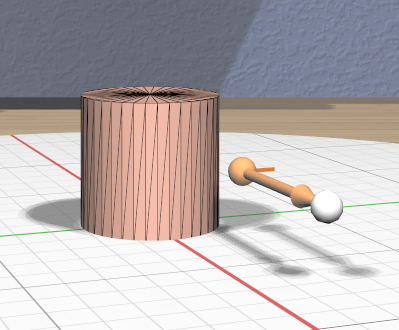
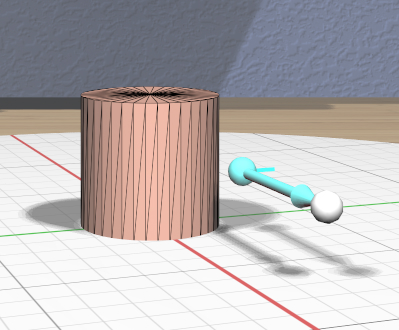
Changed target colors and updated doc.

Changed region(s): [[0.5714, 0.4545, 0.782, 0.6364]]

diff --git a/PublicDoc/docs/UserGuide/Precision.rst b/PublicDoc/docs/UserGuide/Precision.rst
@@ -171,10 +171,12 @@ feedback<ug-feedback>` change to the active target color.  See the
 documentation for the individual tools for specific details of how they handle
 snapping.
 
+.. incimage:: /images/SnappedToPointTarget.jpg 240px right
+
 When the Point Target is active, interactions that involve position (such as
 the :ref:`Translation Tool <ug-translation-tool>`) or orientation (such as the
 :ref:`Rotation Tool <ug-rotation-tool>`) snap to the target's position and
-direction. 
+direction as shown here.
 
 Similarly, when the Edge Target is active, interactions that involve size (such
 as the :ref:`Scale Tool <ug-scale-tool>`) snap to the target's length.
